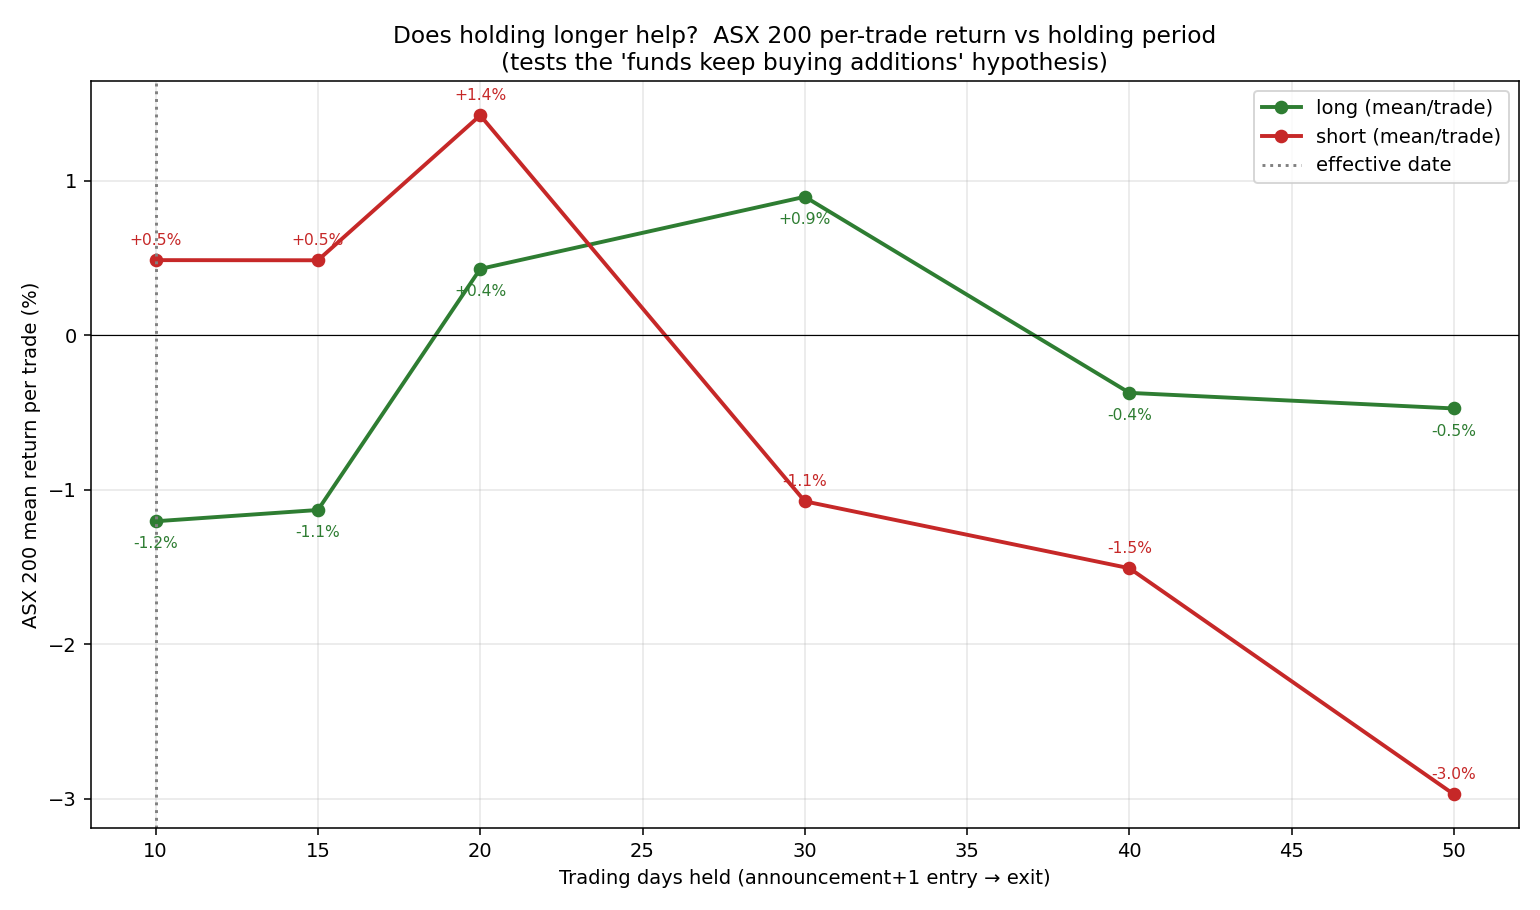
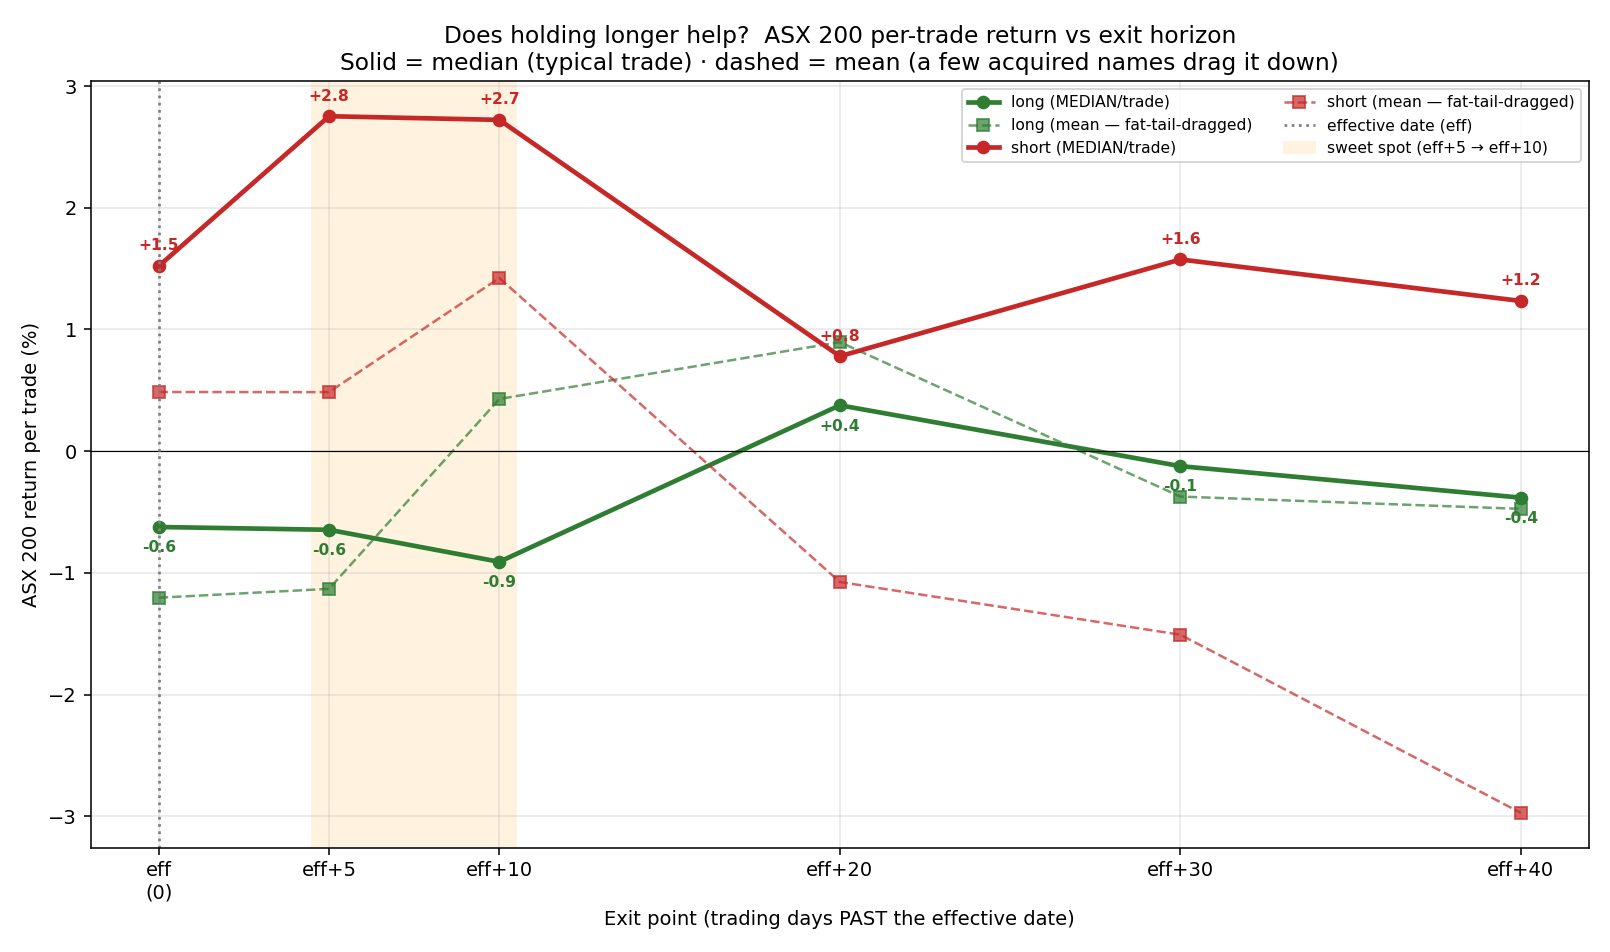
Fix horizon chart + correct eff5-vs-eff10 and net-of-cost claims
A reader correctly noticed the horizon chart's mean line peaks at eff+10, not
eff+5, and that the x-axis (days HELD) reads as "20 days".

- Horizon chart now plots MEDIAN (solid, the robust metric) and mean (dashed,
  fat-tail-dragged), x-axis relabelled in days-past-effective, with the
  eff+5..eff+10 sweet spot shaded. The two horizons are tied on median
  (+2.75% vs +2.72%); eff+5 wins on win-rate (64%), eff+10 on mean (+1.4%).
  Corrected the overstated "best at eff+5" to "eff+5..eff+10 band".
- HONEST WEAKENING: on the complete data the short edge is NO LONGER a clean
  cost-survivor. Net median is still ~+2.2% (61% win) but Wilcoxon p is now
  ~0.05-0.09 (was 0.016 on the smaller sample) — borderline, just missing 5%.
  Updated §1, §6, §7 to say "real in size, marginal in significance" instead of
  "survives costs".

diff --git a/scripts/build_v3_charts.py b/scripts/build_v3_charts.py
@@ -32,22 +32,32 @@ def _save(fig, name):
 def horizon_chart():
     h = pd.read_csv(OUTPUTS_DIR / "v3_horizon.csv")
     a = h[h.tier == "ASX200"]
-    fig, ax = plt.subplots(figsize=(11, 6.5))
+    fig, ax = plt.subplots(figsize=(11.5, 6.8))
     xs = [EXIT_DAYS[e] for e in EXIT_ORDER]
+    # x-axis ticks labelled by the exit (days PAST the effective date) for clarity
+    eff_x = EXIT_DAYS["eff"]
     for side, c in (("long", "#2e7d32"), ("short", "#c62828")):
         s = a[a.side == side].set_index("exit").reindex(EXIT_ORDER)
-        ax.plot(xs, s["mean_pct"], marker="o", color=c, lw=2, label=f"{side} (mean/trade)")
-        for x, y, n in zip(xs, s["mean_pct"], s["n"]):
+        # MEDIAN = the robust "typical trade" (solid); MEAN = fat-tail-dragged (dashed)
+        ax.plot(xs, s["median_pct"], marker="o", color=c, lw=2.4, label=f"{side} (MEDIAN/trade)")
+        ax.plot(xs, s["mean_pct"], marker="s", color=c, lw=1.3, ls="--", alpha=0.7,
+                label=f"{side} (mean — fat-tail-dragged)")
+        for x, y in zip(xs, s["median_pct"]):
             if pd.notna(y):
-                ax.annotate(f"{y:+.1f}%", (x, y), textcoords="offset points",
-                            xytext=(0, 8 if side == "short" else -14), ha="center", fontsize=8, color=c)
+                ax.annotate(f"{y:+.1f}", (x, y), textcoords="offset points",
+                            xytext=(0, 8 if side == "short" else -13), ha="center", fontsize=8,
+                            color=c, fontweight="bold")
     ax.axhline(0, color="black", lw=0.6)
-    ax.axvline(10, color="grey", ls=":", label="effective date")
-    ax.set_xlabel("Trading days held (announcement+1 entry → exit)")
-    ax.set_ylabel("ASX 200 mean return per trade (%)")
-    ax.set_title("Does holding longer help?  ASX 200 per-trade return vs holding period\n"
-                 "(tests the 'funds keep buying additions' hypothesis)")
-    ax.legend(); ax.grid(True, alpha=0.3)
+    ax.axvline(eff_x, color="grey", ls=":", lw=1.4, label="effective date (eff)")
+    ax.axvspan(EXIT_DAYS["eff5"] - 0.5, EXIT_DAYS["eff10"] + 0.5, color="#fff3e0", zorder=0,
+               label="sweet spot (eff+5 → eff+10)")
+    ax.set_xticks(xs)
+    ax.set_xticklabels(["eff\n(0)", "eff+5", "eff+10", "eff+20", "eff+30", "eff+40"])
+    ax.set_xlabel("Exit point (trading days PAST the effective date)")
+    ax.set_ylabel("ASX 200 return per trade (%)")
+    ax.set_title("Does holding longer help?  ASX 200 per-trade return vs exit horizon\n"
+                 "Solid = median (typical trade) · dashed = mean (a few acquired names drag it down)")
+    ax.legend(fontsize=8, ncol=2); ax.grid(True, alpha=0.3)
     _save(fig, "v3_horizon.png")
 
 

diff --git a/README.md b/README.md
@@ -52,7 +52,10 @@ to Bonferroni across all 24 tests):**
    reversal* / *"disappearing index effect."*
 3. **Removals are the only persistent side** (a real but weaker ~−1% to −2.5%
    downward drift), which is why — when we *do* build a tradeable strategy
-   (§4–8) — shorting removals is the single edge that survives costs.
+   (§4–8) — shorting removals (held ~eff+5 to eff+10) is the only edge with any
+   net-of-cost life: ≈**+2.2% median / 61% win**, but only **borderline
+   significant** after realistic costs (Wilcoxon p≈0.05–0.09). Real in size,
+   marginal in significance — not a slam dunk.
 4. **Off-cycle M&A events must be excluded**: their removals *rise* +6%
    (takeover premium), inverting the sign.
 
@@ -263,10 +266,18 @@ Reading it:
 
 ![ASX 200 per-trade return vs holding period](docs/figures/v3_horizon.png)
 
-- **Short (red):** best at **eff+5 (+3.3% median, 68% win)** and stays
-  median-positive at *every* horizon out to +40 days — removals stay depressed as
-  passive funds keep dumping them.
-- **Long (green):** at `eff` the addition is −0.7% median; holding 6–8 weeks only
+The chart plots **median (solid)** and **mean (dashed)** — they disagree because a
+few acquired names create fat tails, so the median (the *typical* trade) is the
+one to trust.
+
+- **Short (red):** the sweet spot is **eff+5 to eff+10** (≈1–2 weeks past the
+  effective date), shaded on the chart. By **median** the two are tied
+  (**+2.75%** at eff+5 vs **+2.72%** at eff+10); by **win rate** eff+5 is best
+  (**64%** vs 58%); by **mean** eff+10 peaks (+1.4% vs +0.5%, because the mean is
+  dragged by outliers). So "eff+5" isn't uniquely best — **eff+5…eff+10 is the
+  band.** It stays median-positive at every horizon, but the *mean* turns negative
+  past ~eff+20 as some names recover and borrow cost piles up.
+- **Long (green):** at `eff` the addition is ≈−0.7% median; holding 6–8 weeks only
   drags it back to roughly breakeven. The super-fund flow is real (additions *do*
   recover) but you entered at the pop, so the best holding longer does is undo the
   loss. It never becomes an edge.
@@ -294,22 +305,31 @@ Gross is nice; net is the truth. We build a realistic per-trade cost stack from
 
 ![Gross vs net per-trade](docs/figures/gross_vs_net.png)
 
-The headline cell, ASX 200 short · `eff5`, across order sizes:
+The headline cell, ASX 200 short · `eff5` (n=127), across order sizes:
 
-| | mean | median | win | avg cost | survives? (Wilcoxon) |
+| | mean | median | win | avg cost | Wilcoxon p |
 |---|--:|--:|--:|--:|--:|
-| **Gross** | +2.69% | +3.36% | 68.6% | — | — |
-| Net (A$250k clip) | +1.86% | +2.58% | 63.8% | 83 bp | **p = 0.014 ✅** |
-| Net (A$500k clip) | +1.75% | +2.50% | 63.8% | 93 bp | **p = 0.016 ✅** |
-| Net (A$1m clip) | +1.60% | +2.40% | 63.8% | 108 bp | **p = 0.023 ✅** |
+| **Gross** | +1.85% | +2.83% | 65% | — | 0.010 |
+| Net (A$250k clip) | +1.05% | +2.22% | 61% | 80 bp | 0.053 |
+| Net (A$500k clip) | +0.95% | +2.18% | 61% | 90 bp | 0.063 |
+| Net (A$1m clip) | +0.81% | +2.12% | 61% | 104 bp | 0.085 |
 
-What does **not** survive: shorting at the **effective** date (net median +0.58%,
-p=0.93); the **long** side (net median −1.2%, more negative after costs); and
-the ASX 100 / pooled shorts (edges wiped out or insignificant after costs).
+**Honest update on the complete data:** the net median edge is still real in
+size (**≈+2.2%/trade, 61% win**), but after costs its significance is now
+**borderline, not clean** — Wilcoxon p ≈ **0.05–0.09** depending on clip, i.e. it
+*just misses* the 5% bar. (On the smaller earlier sample it cleared it at p=0.016;
+adding the recovered acquired names widened the fat tails and pushed it to the
+margin.) So the fair read is: **a real, economically-meaningful short edge that
+is only marginally significant once you pay realistic costs** — not a slam dunk.
 
-**Conclusion:** the *only* signal that is statistically real **and** cost-surviving
-is **short ASX 200 removals, hold to ~eff+5** — ≈ **+2.5% net median, 64% win,
-significant to A$1m clips.**
+What is clearly *gone* after costs: shorting only to the **effective** date (net
+median +0.6%, p≈0.97); the **long** side (more negative after costs); and the
+ASX 100 / pooled shorts.
+
+**Conclusion:** the only candidate with net-of-cost life is **short ASX 200
+removals, held ~eff+5 to eff+10** — ≈ **+2.2% net median, 61% win** — but on the
+complete data it is **only borderline-significant after costs** (p≈0.05–0.09).
+A real, modest edge at the margin of tradeability, not a reliable money machine.
 
 ---
 
